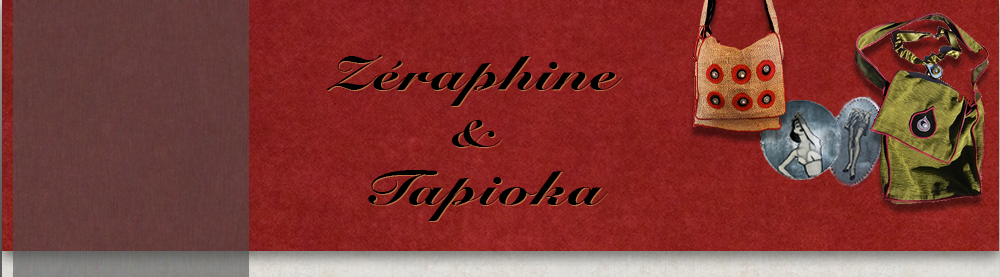
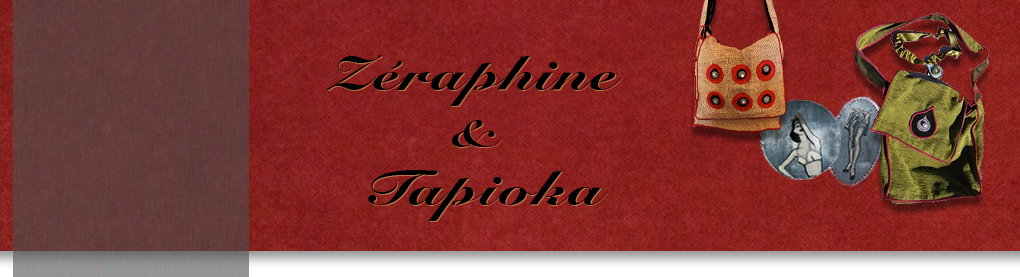
css et header ajustement

diff --git a/src/zeraphine/theme/static/css/style.css b/src/zeraphine/theme/static/css/style.css
@@ -37,6 +37,10 @@ margin-left:42px;
 margin-top:10px;
 }
 
+#portal-logo-theme img{
+border-radius:12px;
+}
+
 #portal-siteactions-theme{
 position:relative;
 top:8px;
@@ -89,7 +93,7 @@ z-index: 3;
 float:left;
 width:236px;
 margin-left:13px;
-background-color:rgba(82,77,76,0.5);
+background-color:rgba(82,77,76,0.6);
 }
 
 #main-column-theme{
